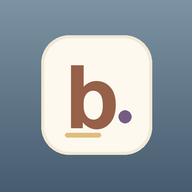
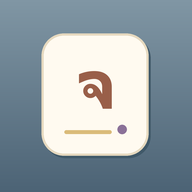
Rename app to Jod Ngern and compact top-right account controls

Changed region(s): [[0.1875, 0.1562, 0.8125, 0.8438], [0.3125, 0.3125, 0.6875, 0.7188]]

diff --git a/index.html b/index.html
@@ -8,7 +8,7 @@
   <link rel="icon" href="icon-192.png" type="image/png">
   <link rel="apple-touch-icon" href="icon-192.png">
   <meta name="apple-mobile-web-app-capable" content="yes">
-  <title>Budget — รายรับรายจ่าย</title>
+  <title>จดเงิน — รายรับรายจ่าย</title>
   <script src="redirect.js"></script>
   <link rel="stylesheet" href="styles.css">
   <script type="module" src="views.js"></script>
@@ -18,7 +18,7 @@
 </head>
 <body>
   <aside class="sidebar">
-    <a class="brand" href="#overview"><span class="brand-icon">b.</span>budget</a>
+    <div class="sidebar-top"><a class="brand" href="#overview">จดเงิน</a><section class="ai-account account-bar" aria-label="บัญชีและการเข้าสู่ระบบ"><button id="ai-login" type="button" aria-label="เข้าสู่ระบบด้วย Google" disabled>เข้าสู่ระบบ</button></section></div>
     <p class="sidebar-caption">จัดการเงินให้สบายขึ้น</p>
     <nav aria-label="เมนูหลัก">
       <a class="nav-item active" href="#overview" aria-current="page"><span>▥</span> ภาพรวม</a>
@@ -26,13 +26,13 @@
       <a class="nav-item" href="#transactions"><span>☷</span> รายการ</a>
       <a class="nav-item" id="data-nav-link" href="#data-tools"><span>↥</span> ข้อมูล</a>
     </nav>
+    <span id="ai-account-status" class="account-notice sr-only" role="status" aria-live="polite">กำลังเชื่อมต่อบัญชี…</span>
     <div class="sidebar-note"><span class="note-dot"></span><strong>เริ่มจากเรื่องง่าย ๆ</strong><p>รับมาเท่าไร จ่ายไปเท่าไร<br>เลือกหน้าที่ต้องการได้เลย</p></div>
-    <div class="sidebar-foot">Budget · รายรับรายจ่าย<br><span>สำรองในเครื่อง · ซิงค์เมื่อเข้าสู่ระบบ</span></div>
+    <div class="sidebar-foot">จดเงิน · รายรับรายจ่าย<br><span>สำรองในเครื่อง · ซิงค์เมื่อเข้าสู่ระบบ</span></div>
   </aside>
   <main>
     <header class="page-header">
       <div class="page-copy"><h1 id="page-title" tabindex="-1">ภาพรวม</h1><p id="page-caption">ยอดเงินของเดือนที่เลือก</p></div>
-      <section class="ai-account account-bar" aria-label="บัญชีและการเข้าสู่ระบบ"><button id="ai-login" type="button" disabled>เข้าสู่ระบบ Google</button><span id="ai-account-status" role="status" aria-live="polite">กำลังเชื่อมต่อบัญชี…</span></section>
     </header>
     <section id="period-bar" class="overview-heading" aria-label="เดือนที่เลือก"><div class="period-controls"><button id="prev-month" aria-label="เดือนก่อน">‹</button><label><span class="sr-only">เลือกเดือนและปี</span><input type="month" id="month"></label><button id="next-month" aria-label="เดือนถัดไป">›</button></div></section>
     <section class="demo-banner" id="demo-banner"><div><strong>ลองดูภาพด้วยข้อมูลตัวอย่าง</strong><span>รายการเหล่านี้เป็นตัวอย่างสำหรับดราฟแรก</span></div><button id="start-empty">เริ่มจดข้อมูลของฉัน</button></section>
@@ -71,13 +71,13 @@
         <nav class="pagination" id="pagination" aria-label="หน้ารายการ" hidden><span id="page-range"></span><div class="page-buttons"><button id="page-prev" type="button">‹ ก่อนหน้า</button><span id="page-status" role="status" aria-live="polite"></span><button id="page-next" type="button">ถัดไป ›</button></div></nav>
         <div class="ledger-foot"><span id="save-status" role="status">● บันทึกในเครื่องนี้</span><button id="clear-filter">ล้างตัวกรอง</button></div>
       </section>
-    <section id="data-tools" class="data-tools app-view" aria-label="ข้อมูลและสำรอง" hidden><div class="data-heading"><div><h2>ข้อมูลและสำรอง</h2><p id="sync-status" role="status">บันทึกในเครื่อง</p></div><div class="tool-actions"><button id="sync-retry" hidden>ซิงค์อีกครั้ง</button><span id="sync-conflict" hidden><button id="sync-use-cloud">ใช้ชุดคลาวด์</button><button id="sync-use-local">ใช้ชุดในเครื่อง</button></span></div></div><div class="tool-actions backup-actions"><button id="backup">สำรองข้อมูล</button><button id="restore">กู้คืนจากไฟล์</button><button id="export-csv">ส่งออก CSV</button></div><p class="data-note">CSV ใช้เดือนที่เลือกด้านบน · ไฟล์สำรองรวมข้อมูลทุกเดือน</p><input id="restore-file" type="file" accept=".json,application/json" hidden><div class="app-tools" aria-label="ติดตั้งและการเชื่อมต่อ"><span id="connection-status" role="status"></span><button id="install-app">＋ ติดตั้ง Budget</button><button id="update-app" hidden>อัปเดตแอป</button><span id="ios-install" hidden>ติดตั้งบน iPhone: แตะแชร์ → เพิ่มไปยังหน้าจอโฮม</span></div></section>
-    <footer>Budget · จดรายรับรายจ่ายให้สบายขึ้น <span>เรียบง่ายขึ้น ในทุกวัน</span></footer>
+    <section id="data-tools" class="data-tools app-view" aria-label="ข้อมูลและสำรอง" hidden><div class="data-heading"><div><h2>ข้อมูลและสำรอง</h2><p id="sync-status" role="status">บันทึกในเครื่อง</p></div><div class="tool-actions"><button id="sync-retry" hidden>ซิงค์อีกครั้ง</button><span id="sync-conflict" hidden><button id="sync-use-cloud">ใช้ชุดคลาวด์</button><button id="sync-use-local">ใช้ชุดในเครื่อง</button></span></div></div><div class="tool-actions backup-actions"><button id="backup">สำรองข้อมูล</button><button id="restore">กู้คืนจากไฟล์</button><button id="export-csv">ส่งออก CSV</button></div><p class="data-note">CSV ใช้เดือนที่เลือกด้านบน · ไฟล์สำรองรวมข้อมูลทุกเดือน</p><input id="restore-file" type="file" accept=".json,application/json" hidden><div class="app-tools" aria-label="ติดตั้งและการเชื่อมต่อ"><span id="connection-status" role="status"></span><button id="install-app">＋ ติดตั้ง จดเงิน</button><button id="update-app" hidden>อัปเดตแอป</button><span id="ios-install" hidden>ติดตั้งบน iPhone: แตะแชร์ → เพิ่มไปยังหน้าจอโฮม</span></div></section>
+    <footer>จดเงิน · จดรายรับรายจ่ายให้สบายขึ้น <span>เรียบง่ายขึ้น ในทุกวัน</span></footer>
   </main>
   <div id="toast" class="toast" role="status" hidden><span id="toast-text"></span><button id="undo" hidden>ย้อนกลับ</button><button id="dismiss-toast" aria-label="ปิดข้อความ">×</button></div>
   <dialog id="summary-dialog"><div class="dialog-heading"><h2>สรุปรายเดือน</h2><button id="close-summary" aria-label="ปิดสรุป">×</button></div><p id="summary-period"></p><div id="summary-content"></div><button id="summary-done" class="save-button">กลับไปจดรายการ</button></dialog>
   <dialog id="account-dialog" aria-labelledby="account-heading"><div class="dialog-heading"><h2 id="account-heading">บัญชีของคุณ</h2><button id="account-close" type="button" aria-label="ปิดบัญชี">×</button></div><p id="account-identity"></p><p>ข้อมูลในเครื่องแยกตามบัญชี สิทธิ์ซิงค์และ AI ตรวจโดยเซิร์ฟเวอร์ และต้องเชื่อมต่ออินเทอร์เน็ต</p><button id="account-logout" type="button">ออกจากระบบ</button></dialog>
-  <dialog id="install-dialog" aria-labelledby="install-heading"><h2 id="install-heading">ติดตั้ง Budget</h2><p>Brave / Chrome: เปิดเมนูเบราว์เซอร์แล้วเลือกติดตั้งแอป หรือใช้ไอคอนติดตั้งในแถบที่อยู่เมื่อปรากฏ</p><p>iPhone / iPad: เปิดผ่าน Safari แล้วแตะแชร์ → เพิ่มไปยังหน้าจอโฮม</p><p>เปิดเว็บออนไลน์ครั้งแรกให้ขึ้น «พร้อมใช้แบบออฟไลน์» ก่อนใช้งานโดยไม่ต่อเน็ต AI และซิงค์ข้อมูลยังต้องใช้อินเทอร์เน็ต</p><button id="install-close" class="save-button" type="button">เข้าใจแล้ว</button></dialog>
+  <dialog id="install-dialog" aria-labelledby="install-heading"><h2 id="install-heading">ติดตั้ง จดเงิน</h2><p>Brave / Chrome: เปิดเมนูเบราว์เซอร์แล้วเลือกติดตั้งแอป หรือใช้ไอคอนติดตั้งในแถบที่อยู่เมื่อปรากฏ</p><p>iPhone / iPad: เปิดผ่าน Safari แล้วแตะแชร์ → เพิ่มไปยังหน้าจอโฮม</p><p>เปิดเว็บออนไลน์ครั้งแรกให้ขึ้น «พร้อมใช้แบบออฟไลน์» ก่อนใช้งานโดยไม่ต่อเน็ต AI และซิงค์ข้อมูลยังต้องใช้อินเทอร์เน็ต</p><button id="install-close" class="save-button" type="button">เข้าใจแล้ว</button></dialog>
   <dialog id="ai-dialog" class="ai-dialog" aria-labelledby="ai-heading">
     <div class="dialog-heading"><h2 id="ai-heading">ช่วยจดด้วย AI</h2><button id="ai-close" type="button" aria-label="ปิด AI">×</button></div>
     <p id="ai-guidance"></p>

diff --git a/auth.js b/auth.js
@@ -2,10 +2,14 @@ let auth, sdk, local=false,offlineUser=null;
 const OWNER_KEY='budget-last-owner-v1';
 const accountDialog=document.getElementById('account-dialog');
 document.getElementById('account-close').onclick=()=>accountDialog.close();
+function accountStatus(message,notice=false){
+  const status=document.getElementById('ai-account-status');
+  if(status){status.textContent=message;status.classList.toggle('sr-only',!notice);}
+}
 function accountButton(button,user){
   if(!button)return;
   button.replaceChildren();button.classList.toggle('signed-in',Boolean(user));
-  if(!user){button.textContent='เข้าสู่ระบบ Google';button.removeAttribute('aria-label');button.removeAttribute('title');return;}
+  if(!user){button.textContent='เข้าสู่ระบบ';button.setAttribute('aria-label','เข้าสู่ระบบด้วย Google');button.removeAttribute('title');return;}
   const label=user.displayName||'Google';
   button.setAttribute('aria-label','เปิดบัญชี '+label+' · เข้าสู่ระบบแล้ว');button.title='บัญชี · เข้าสู่ระบบแล้ว';
   const avatar=document.createElement('span');avatar.className='account-avatar';avatar.setAttribute('aria-hidden','true');
@@ -22,8 +26,8 @@ function accountButton(button,user){
 function getUser(){return local?{uid:'local-owner',email:''}:auth?.currentUser?{uid:auth.currentUser.uid,email:auth.currentUser.email||''}:offlineUser;}
 function offline(button,status){
   try{const uid=localStorage.getItem(OWNER_KEY);if(uid&&/^[A-Za-z0-9_-]{1,128}$/.test(uid))offlineUser={uid,email:'',offline:true};}catch{}
-  if(status)status.textContent=navigator.onLine?'เชื่อมต่อบัญชีไม่สำเร็จ · ตรวจอินเทอร์เน็ตแล้วลองเชื่อมต่ออีกครั้ง':offlineUser?'ออฟไลน์ · ใช้ข้อมูลบัญชีล่าสุดในเครื่อง · เชื่อมต่อก่อนซิงค์หรือใช้ AI':'ออฟไลน์ · จดข้อมูลในเครื่องได้';
-  if(button){accountButton(button,null);button.textContent='ลองเชื่อมต่ออีกครั้ง';button.disabled=false;button.onclick=()=>location.reload();}announce();
+  accountStatus(navigator.onLine?'เชื่อมต่อบัญชีไม่สำเร็จ · ตรวจอินเทอร์เน็ตแล้วลองเชื่อมต่ออีกครั้ง':offlineUser?'ออฟไลน์ · ใช้ข้อมูลบัญชีล่าสุดในเครื่อง · เชื่อมต่อก่อนซิงค์หรือใช้ AI':'ออฟไลน์ · จดข้อมูลในเครื่องได้',true);
+  if(button){accountButton(button,null);button.textContent='ลองเชื่อมต่ออีกครั้ง';button.setAttribute('aria-label','ลองเชื่อมต่อบัญชีอีกครั้ง');button.disabled=false;button.onclick=()=>location.reload();}announce();
 }
 function announce(){window.dispatchEvent(new CustomEvent('budget-auth-changed',{detail:getUser()}));}
 function bounded(promise,ms=12000){let timer;return Promise.race([promise,new Promise((_,reject)=>{timer=setTimeout(()=>reject(new Error('Auth timeout')),ms);})]).finally(()=>clearTimeout(timer));}
@@ -43,15 +47,15 @@ const ready=(async()=>{
   try{
     const controller=new AbortController(),timer=setTimeout(()=>controller.abort(),8000);
     let config;try{const response=await fetch('/api/config',{cache:'no-store',signal:controller.signal});if(!response.ok)throw new Error();config=await response.json();}finally{clearTimeout(timer);}
-    if(config.localPreview){local=true;if(button)button.hidden=true;if(status)status.textContent='AI พร้อมใช้ในเครื่องนี้';announce();return;}
+    if(config.localPreview){local=true;if(button)button.hidden=true;accountStatus('AI พร้อมใช้ในเครื่องนี้');announce();return;}
     if(!config.firebase)throw new Error();
     const [{initializeApp},authSDK]=await bounded(Promise.all([import('https://www.gstatic.com/firebasejs/11.10.0/firebase-app.js'),import('https://www.gstatic.com/firebasejs/11.10.0/firebase-auth.js')]));
     sdk=authSDK;auth=sdk.getAuth(initializeApp(config.firebase));
     await bounded(new Promise((resolve,reject)=>{const unsubscribe=sdk.onAuthStateChanged(auth,()=>{unsubscribe();resolve();},reject);}));
-    sdk.onAuthStateChanged(auth,user=>{offlineUser=null;try{if(user)localStorage.setItem(OWNER_KEY,user.uid);else localStorage.removeItem(OWNER_KEY);}catch{}accountButton(button,user);if(status)status.textContent=user?'เข้าสู่ระบบแล้ว':'เข้าสู่ระบบเพื่อซิงค์และใช้ AI';document.getElementById('account-identity').textContent=user?(user.email||'บัญชี Google'):'';if(!user&&accountDialog.open)accountDialog.close();announce();});
-    if(button){button.disabled=false;button.onclick=async()=>{if(auth.currentUser){accountDialog.showModal();return;}button.disabled=true;try{if(status)status.textContent='กำลังเปิดหน้าเข้าสู่ระบบ Google…';await sdk.signInWithPopup(auth,new sdk.GoogleAuthProvider());}catch(error){if(status)status.textContent=loginError(error);}finally{button.disabled=false;}};}
+    sdk.onAuthStateChanged(auth,user=>{offlineUser=null;try{if(user)localStorage.setItem(OWNER_KEY,user.uid);else localStorage.removeItem(OWNER_KEY);}catch{}accountButton(button,user);accountStatus(user?'เข้าสู่ระบบแล้ว':'เข้าสู่ระบบเพื่อซิงค์และใช้ AI');document.getElementById('account-identity').textContent=user?(user.email||'บัญชี Google'):'';if(!user&&accountDialog.open)accountDialog.close();announce();});
+    if(button){button.disabled=false;button.onclick=async()=>{if(auth.currentUser){accountDialog.showModal();return;}button.disabled=true;try{accountStatus('กำลังเปิดหน้าเข้าสู่ระบบ Google…');await sdk.signInWithPopup(auth,new sdk.GoogleAuthProvider());}catch(error){accountStatus(loginError(error),true);}finally{button.disabled=false;}};}
     const logout=document.getElementById('account-logout');
-    logout.onclick=async()=>{logout.disabled=true;try{await sdk.signOut(auth);accountDialog.close();}catch{if(status)status.textContent='ออกจากระบบไม่สำเร็จ กรุณาลองอีกครั้ง';}finally{logout.disabled=false;}};
+    logout.onclick=async()=>{logout.disabled=true;try{await sdk.signOut(auth);accountDialog.close();}catch{accountStatus('ออกจากระบบไม่สำเร็จ กรุณาลองอีกครั้ง',true);}finally{logout.disabled=false;}};
   }catch{auth=null;sdk=null;local=false;offline(button,status);}
 })();
 window.budgetAuth={ready,getUser,async getToken(){await ready;if(local)return 'local-preview';if(!auth?.currentUser)throw new Error('กรุณาเข้าสู่ระบบ Google ก่อนใช้ AI');return auth.currentUser.getIdToken();}};

diff --git a/styles.css b/styles.css
@@ -169,3 +169,14 @@ html{scroll-behavior:auto}.app-view{margin-top:18px}#page-title:focus{outline:no
 .nav-item.sync-warning:after{content:'!';display:inline-grid;place-items:center;min-width:16px;height:16px;margin-left:4px;border-radius:50%;background:#b87652;color:#fff;font-size:11px;font-weight:700}
 @media(max-width:850px){.sidebar{position:sticky;top:0;z-index:5}.sidebar nav{display:grid;grid-template-columns:repeat(4,minmax(0,1fr));flex:1}.sidebar .nav-item{padding:10px 8px;min-width:0;white-space:normal}.brand{flex-shrink:0}#transactions{scroll-margin-top:145px}}
 @media(max-width:650px){.sidebar nav{grid-template-columns:repeat(4,minmax(0,1fr));gap:5px}.sidebar .nav-item{font-size:12px;padding:10px 5px}.app-view{margin-top:14px}.overview-actions button,.view-action{font-size:12px;padding:10px 6px}.entry-panel .ai-shortcuts{margin-bottom:12px}.entry-panel .field{margin-bottom:12px}.entry-panel .field>input{padding:11px 10px}.amount-input input{padding:11px 12px}.form-sub{font-size:11px}.form-note{font-size:10px}.page-header{min-height:65px}}
+
+/* Small account photo, comfortable touch target, and visible auth errors. */
+.sidebar-top{display:flex;align-items:center;justify-content:space-between;gap:12px}
+.sidebar .account-bar{position:fixed;right:36px;top:34px;display:flex;align-items:center;justify-content:center;flex-direction:row;margin:0;padding:0;border:0;background:none;box-shadow:none;z-index:6}
+.sidebar .account-bar #ai-login{width:auto;min-height:44px;max-width:180px;padding:8px 12px;font-size:12px;line-height:1.5;white-space:normal;color:#52697a;background:linear-gradient(145deg,#f6f9fa,#e7eef2);border:1px solid #cedbe3;box-shadow:0 2px 5px #52697a0e}
+.sidebar .account-bar #ai-login.signed-in{display:grid;place-items:center;width:44px;height:44px;min-height:44px;padding:7px;border:0;border-radius:50%;background:transparent;box-shadow:none}
+.sidebar .account-avatar{width:30px;height:30px;font-size:14px}
+.sidebar .account-dot{width:9px;height:9px;right:-1px;bottom:-1px;border-width:1.5px}
+.account-notice:not(.sr-only){display:block;margin:12px 0 0;padding:10px 12px;border:1px solid #e3c8bb;border-radius:9px;background:#fff5ef;color:#92553f;font-size:12px;line-height:1.6;overflow-wrap:anywhere}
+.page-header{padding-right:190px;min-height:44px}
+@media(max-width:850px){.sidebar{display:block}.sidebar-top{width:100%}.sidebar .account-bar{position:static;flex-shrink:0}.sidebar nav{margin-top:8px}.page-header{padding-right:0;min-height:0}.account-notice:not(.sr-only){margin-top:8px}}

diff --git a/model.js b/model.js
@@ -18,7 +18,7 @@ export function parseMoney(value) {
 }
 export function validateState(data) {
   if (!data || data.version !== 1 || !Array.isArray(data.entries) || data.entries.length > 100000 ||
-      !Number.isSafeInteger(data.openingCents) || Math.abs(data.openingCents) > 100000000000) throw new Error('ไฟล์นี้ไม่ใช่ข้อมูล Budget รุ่นที่รองรับ');
+      !Number.isSafeInteger(data.openingCents) || Math.abs(data.openingCents) > 100000000000) throw new Error('ไฟล์นี้ไม่ใช่ข้อมูลจดเงินรุ่นที่รองรับ');
   const ids = new Set();
   let totalMagnitude=Math.abs(data.openingCents);
   for (const row of data.entries) {

diff --git a/views.js b/views.js
@@ -9,7 +9,7 @@ export function showView(id,{push=true,focus=false}={}){
   const [title,caption]=pages[id];
   const heading=document.getElementById('page-title');heading.textContent=title;
   document.getElementById('page-caption').textContent=caption;
-  document.title='Budget — '+title;
+  document.title='จดเงิน — '+title;
   for(const link of document.querySelectorAll('.sidebar nav a')){
     const selected=link.hash==='#'+id;link.classList.toggle('active',selected);
     if(selected)link.setAttribute('aria-current','page');else link.removeAttribute('aria-current');

diff --git a/scripts/generate-icons.py b/scripts/generate-icons.py
@@ -1,0 +1,23 @@
+"""Generate the จดเงิน notebook icons. Requires Python and Pillow on Windows."""
+from pathlib import Path
+from PIL import Image, ImageDraw, ImageFont
+
+root = Path(__file__).resolve().parent.parent
+size = 1024
+image = Image.new('RGB', (size, size))
+draw = ImageDraw.Draw(image)
+for y in range(size):
+    ratio = y / (size - 1)
+    color = tuple(round(a + (b - a) * ratio) for a, b in zip((128, 150, 164), (76, 99, 117)))
+    draw.line((0, y, size, y), fill=color)
+draw.rounded_rectangle((232, 191, 803, 843), radius=120, fill='#405969')
+draw.rounded_rectangle((221, 178, 792, 830), radius=120, fill='#e6d9bf')
+draw.rounded_rectangle((233, 190, 780, 818), radius=108, fill='#fffaf0')
+font = ImageFont.truetype(r'C:\Windows\Fonts\tahomabd.ttf', 360)
+box = draw.textbbox((0, 0), 'จ', font=font)
+draw.text(((size - (box[2] - box[0])) / 2 - box[0], 480 - (box[3] - box[1]) / 2 - box[1]), 'จ', font=font, fill='#995f49')
+draw.rounded_rectangle((343, 694, 595, 714), radius=10, fill='#dabb79')
+draw.ellipse((626, 665, 676, 715), fill='#8b7198')
+for target in (192, 512):
+    image.resize((target, target), Image.Resampling.LANCZOS).save(root / f'icon-{target}.png')
+print('Generated notebook icons (192 and 512 pixels).')

diff --git a/RELEASE_HANDOFF.md b/RELEASE_HANDOFF.md
@@ -1,5 +1,13 @@
 # Budget replacement handoff — 2026-10-10
 
+## จดเงิน and compact account — 2026-10-11
+
+User renamed the visible app to จดเงิน and reported oversized account photo/status on Samsung S25 FE. Branding, page titles, installation text, manifest names and notebook icons now use จดเงิน. Hosting/repository names, manifest ID, data keys and account scope remain stable. Icons are generated by scripts/generate-icons.py (Python/Pillow and Windows Tahoma font).
+
+On mobile/tablet the account control sits at the top right beside the brand, above navigation; its photo is 30px inside a 44px touch target with a 9px signed-in dot. Routine account messages stay available to assistive technology; auth errors and offline notices remain visible. The account dialog still shows identity and explicit logout. No device reset or profile modifications are involved. Travel-expense grouping is a proposal only, not yet implemented.
+
+Independent source review found no layout blocker; fixed the retry action's accessible label and remaining old-brand import error. Preview inspected in a narrow desktop Brave window, not an actual Samsung S25 FE. No automated tests or new paid AI calls were run. User-facing trip proposal: optional trip name/dates/budget, associate normal expense rows without duplicate recording, show trip spending/remaining budget across month boundaries. Multi-currency conversion and shared-bill settlement are deferred ideas, not implemented requirements. Keep transaction entry simple and maintain existing personal/month totals.
+
 ## Separate views — 2026-10-11
 
 Latest user steering supersedes the earlier single-page preference: fixed top menu on mobile and separate compact destinations. Added views.js with four hash routes: overview, entry-panel, transactions, data-tools. Only the active panel is shown; switching panels preserves mounted form/list state, supports browser back/forward and direct links, and avoids reinitializing auth or sync. Editing a ledger row opens the entry screen; summary's return-to-entry action does likewise. The month selector remains available for overview/list/CSV-data screens; entry uses its explicit date. Sync conflicts announce once and mark the data menu so hidden tools cannot silently conceal a conflict. views.js is public-build allowlisted and precached for offline navigation. This update includes the requested signed-in avatar and green dot.

diff --git a/README.md b/README.md
@@ -1,4 +1,4 @@
-# Budget — รายรับรายจ่าย + AI
+# จดเงิน — รายรับรายจ่าย + AI
 
 รุ่นเขียนใหม่ของ `porbboyza-afk/budget-app` จดรายรับ–รายจ่ายและใช้ AI ช่วยเตรียมรายการ
 
@@ -26,7 +26,7 @@
 
 ## PWA
 
-เปิดเว็บออนไลน์ครั้งแรกเพื่อเตรียมไฟล์ออฟไลน์ จากนั้นติดตั้งผ่านปุ่ม «ติดตั้ง Budget» เมื่อเบราว์เซอร์รองรับ หรือเมนูติดตั้งของ Brave/Chrome บน iPhone ใช้แชร์ → เพิ่มไปยังหน้าจอโฮม
+เปิดเว็บออนไลน์ครั้งแรกเพื่อเตรียมไฟล์ออฟไลน์ จากนั้นติดตั้งผ่านปุ่ม «ติดตั้งจดเงิน» เมื่อเบราว์เซอร์รองรับ หรือเมนูติดตั้งของ Brave/Chrome บน iPhone ใช้แชร์ → เพิ่มไปยังหน้าจอโฮม
 
 จดและดูข้อมูลที่มีในเครื่องแบบออฟไลน์ได้ ใช้ชุดบัญชีล่าสุดที่เคยเข้าสู่ระบบบนเครื่องนี้; บัญชีที่ยังไม่เคยซิงค์ไม่มีข้อมูลคลาวด์ให้อ่านออฟไลน์ AI, เข้าสู่ระบบ และซิงค์ต้องมีอินเทอร์เน็ต หากเปิดแบบออฟไลน์ ให้กด «เชื่อมต่ออีกครั้ง» เมื่อกลับออนไลน์
 
